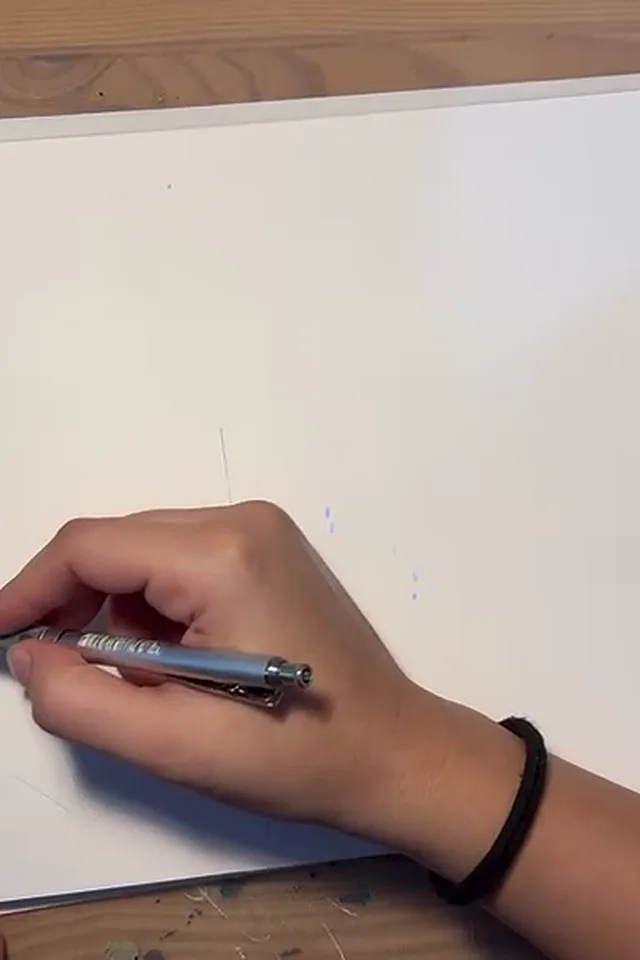
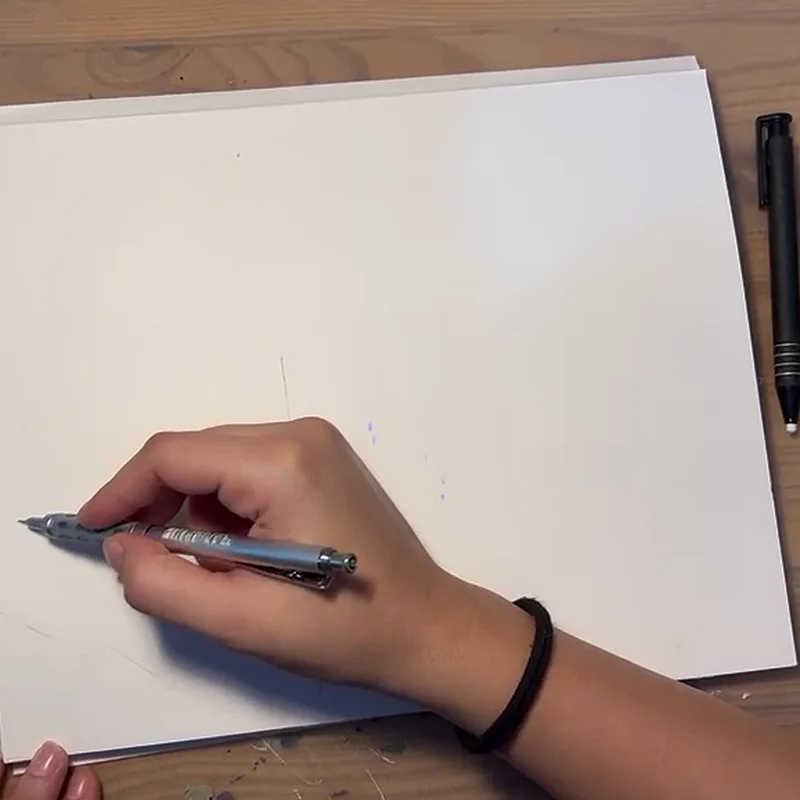
Process page: zoomed-out square white-page photo
Claude-Session: https://claude.ai/code/session_01Bzkuu2Wu2vUbSbF3c33oqq

diff --git a/src/assets/css/style.css b/src/assets/css/style.css
@@ -327,3 +327,4 @@ blockquote { margin: 0; }
 .from-to-row img { width: 100%; aspect-ratio: 2 / 3; object-fit: cover; border-radius: 8px; box-shadow: var(--shadow); background: var(--white); }
 .from-to-arrow { font-size: clamp(2rem, 7vw, 3.2rem); color: var(--teal-deep); line-height: 1; }
 .from-to figcaption { margin-top: 18px; text-align: center; font-size: clamp(1.6rem, 5vw, 2.1rem); }
+.from-to-row img.from-to-start { aspect-ratio: 1 / 1; }
